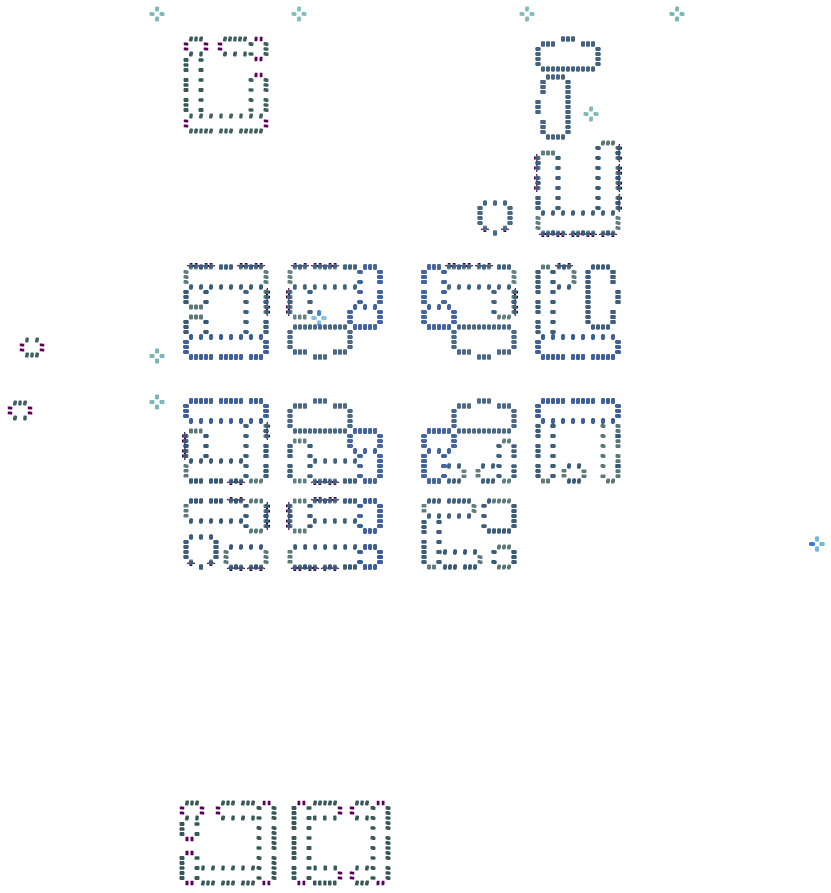
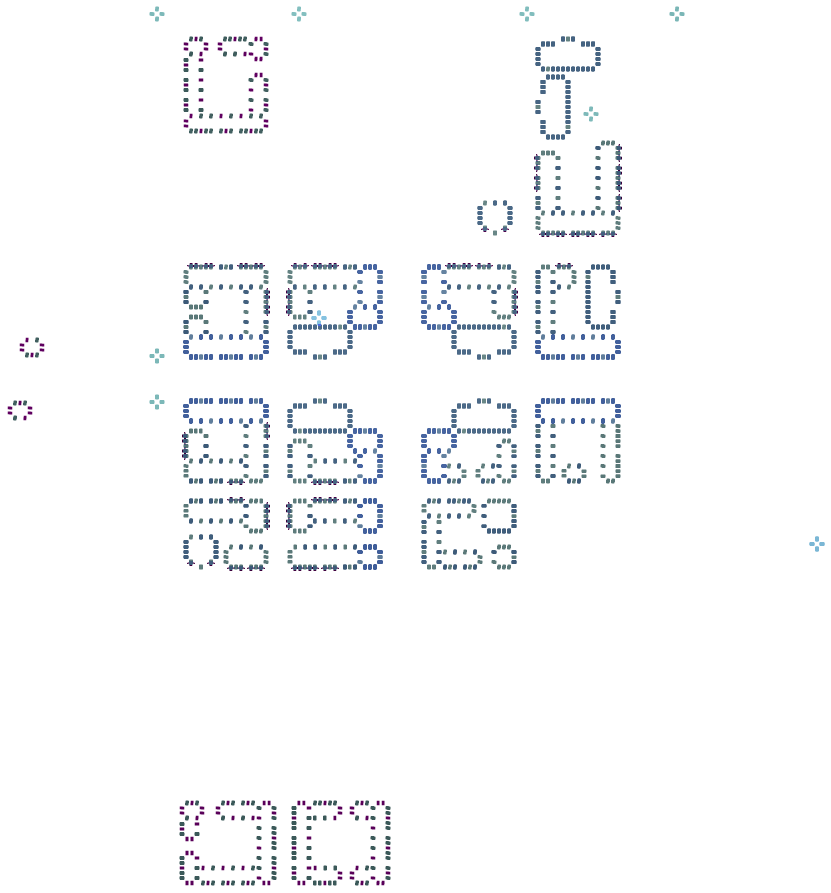
fix(slice): the sill map leaves out the 272 panes of doors, since a door's glass has no sill to stain the wall under it (reference plan R3 step 2)

diff --git a/unity/Assets/Tests/EditMode/VeilmouthCityTests.cs b/unity/Assets/Tests/EditMode/VeilmouthCityTests.cs
@@ -220,7 +220,7 @@ namespace GameDev.Slice.Tests
             var rect = ground.SillsRect;
             const float step = GameDev.VictorianKit.VicGround.SillsStep, storey = GameDev.VictorianKit.VicGround.Storey;
             float Height(float t) => t > 0f ? GameDev.VictorianKit.VicGround.SillsBase + (Mathf.Round(t * 255f) * step) : 0f;
-            var panes = All<GameDev.VictorianKit.VicWindowRooms>().SelectMany(r => Enumerable.Range(0, r.Count).Select(i => r[i].Pane)).Where(p => p != null).ToList();
+            var panes = All<GameDev.VictorianKit.VicWindowRooms>().SelectMany(r => Enumerable.Range(0, r.Count).Select(i => r[i].Pane)).Where(p => p != null && !p.name.Contains("_Door_")).ToList();
             Assert.Greater(panes.Count, 1000, "the city's windows");
             var missed = 0;
             foreach (var pane in panes.Where((_, i) => i % 25 == 0))

diff --git a/unity/Assets/Scripts/Slice/Editor/VeilmouthEaves.cs b/unity/Assets/Scripts/Slice/Editor/VeilmouthEaves.cs
@@ -114,7 +114,7 @@ namespace GameDev.Slice.EditorTools
         {
             var panes = Object.FindObjectsByType<VicWindowRooms>(FindObjectsInactive.Exclude, FindObjectsSortMode.None)
                 .SelectMany(r => Enumerable.Range(0, r.Count).Select(i => r[i].Pane))
-                .Where(p => p != null && p.enabled)
+                .Where(p => p != null && p.enabled && p.name.IndexOf("_Door_", System.StringComparison.Ordinal) < 0) // a door's glass has no sill
                 .Select(Footprint)
                 .ToList();
             if (panes.Count == 0)

diff --git a/unity/Assets/Plans/VEILMOUTH_REFERENCE_PLAN.md b/unity/Assets/Plans/VEILMOUTH_REFERENCE_PLAN.md
@@ -239,7 +239,7 @@ Steps:
    - **Cost:** none measurable, 4.25 ms of GPU pooled against 4.22–4.23 before (`Logs/SliceSurvey/eaves_frames.txt`).
    - Every size and strength is an authoring default.
    **Stains under the sills** (2026-11-11): rain running off each window's sill now carries soot down the wall under it. The stain is darkest under the stone and fades over 1.4 m. It narrows as it runs and breaks into drips about 0.2 m wide further down. It is twice as strong as the material's dirt, since at the dirt's own strength it showed only as a line at the stone.
-   - **Where the windows are.** `VeilmouthEaves.BakeSills` reads every pane of the kit houses (`VicWindowRooms`): 3827 panes in 145 houses. It writes a sill map: one texel each 0.5 m over the city's windows, as an RGBA PNG of 60 KB (`Assets/Materials/Slice/Mystic/Veilmouth_Sills.png`, 831 × 893). Each texel holds the lowest, the second and the highest sill of the column of windows there, in steps of 0.125 m from 20 m, and how much of the texel the column covers.
+   - **Where the windows are.** `VeilmouthEaves.BakeSills` reads every window pane of the kit houses (`VicWindowRooms`): 3555 panes in 145 houses. The 272 panes of doors are left out, since a door's glass has no sill. It writes a sill map: one texel each 0.5 m over the city's windows, as an RGBA PNG of 60 KB (`Assets/Materials/Slice/Mystic/Veilmouth_Sills.png`, 831 × 893). Each texel holds the lowest, the second and the highest sill of the column of windows there, in steps of 0.125 m from 20 m, and how much of the texel the column covers.
    - **Three heights hold a column.** Measured over the panes, every sill above a column's second stands one kit storey, 3.75 m, over the one under it. Only the first gap differs: 4.8 m under a tall ground floor, 7.5 m where a storey has no window. Only 6 of the map's 31 794 column texels fall off that rhythm.
    - **The shader** reads the map 0.75 m inside the wall, as the eaves map is read. It runs a stain from the nearest sill over the point, and the cover's soft edge keeps the stains within the windows' width. A pane's sill is the bottom of its glass, so the stone sill hides where a stain starts.
    - **Rebaked** with the facades' ground and the eaves map (`VeilmouthMystic.Ground`).
